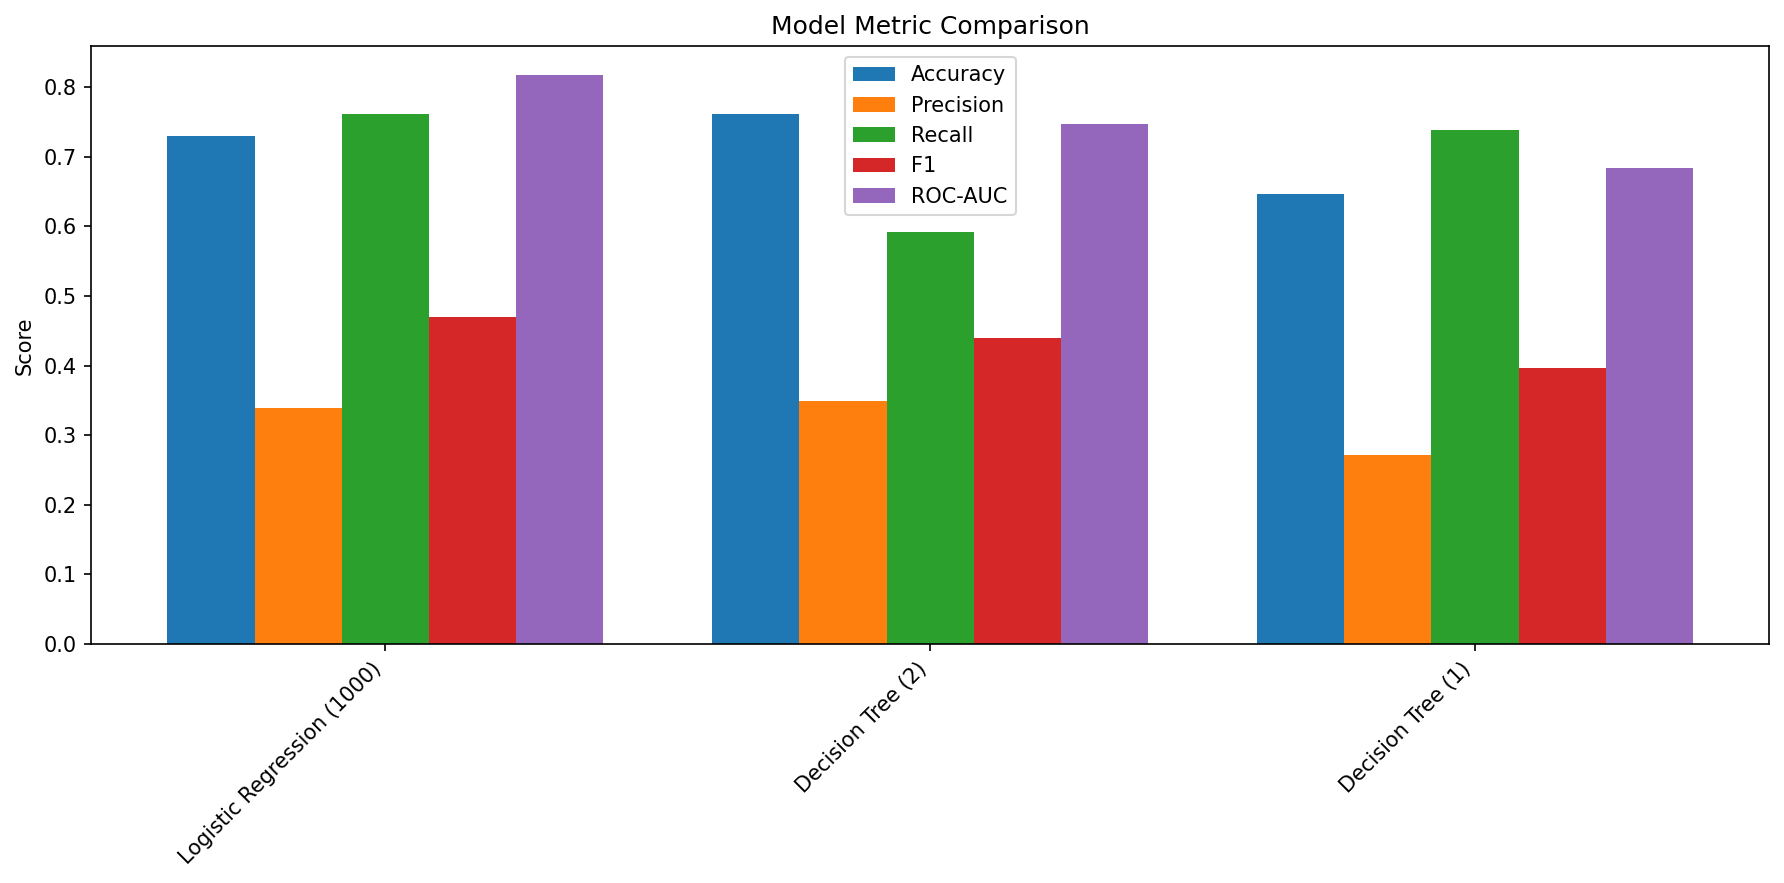
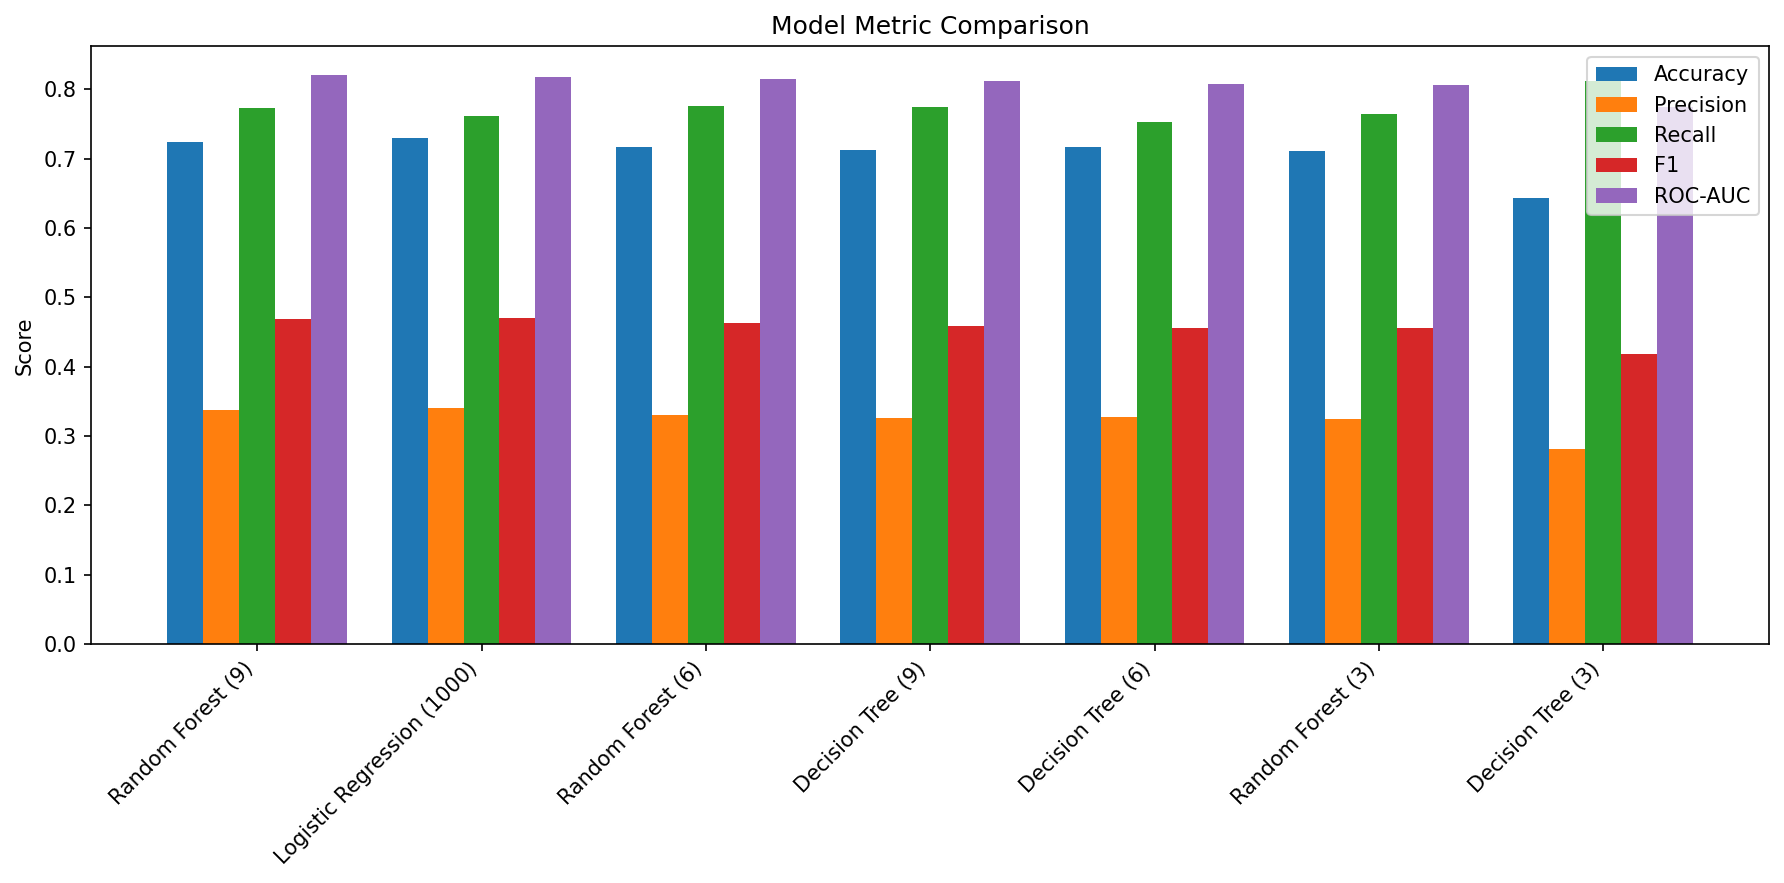
added random forest and added feature analysis graphs

diff --git a/visualizations.py b/visualizations.py
@@ -1,58 +1,25 @@
-from pathlib import Path
 from typing import Optional, Sequence
 
 import matplotlib.pyplot as plt
 import numpy as np
 import pandas as pd
 from sklearn.metrics import ConfusionMatrixDisplay, RocCurveDisplay
+from sklearn.tree import plot_tree
 
-
+from pathlib import Path
 OUTPUT_DIR = Path("outputs")
-OUTPUT_DIR.mkdir(parents=True, exist_ok=True)
-
 
 def _save_current_figure(filename: str) -> None:
-    """Save the current matplotlib figure to the outputs directory."""
     path = OUTPUT_DIR / filename
     plt.tight_layout()
     plt.savefig(path, bbox_inches="tight", dpi=150)
     plt.close()
-
-
-def plot_metric_comparison(
-    results_df: pd.DataFrame,
-    metric: str,
-    title: Optional[str] = None,
-    filename: Optional[str] = None,
-) -> None:
-
-    if metric not in results_df.columns:
-        raise ValueError(f"Metric '{metric}' not found in results dataframe.")
-
-    df = results_df.copy()
-    df = df.sort_values(by=metric, ascending=False)
-
-    plt.figure(figsize=(10, 5))
-
-    plt.bar(df["Label"], df[metric])
-
-    plt.xlabel("Model")
-    plt.ylabel(metric)
-    plt.title(title or f"{metric} Comparison")
-
-    plt.xticks(rotation=45, ha="right")
-
-    _save_current_figure(
-        filename or f"{metric.lower().replace('-', '_')}_comparison.png"
-    )
-
 
 def plot_model_metrics(
     results_df: pd.DataFrame,
     metrics: Optional[Sequence[str]] = None,
     filename: str = "model_metrics_comparison.png",
 ) -> None:
-    """Plot several metrics side by side for model comparison."""
     if metrics is None:
         metrics = ["Accuracy", "Precision", "Recall", "F1", "ROC-AUC"]
 
@@ -105,7 +72,6 @@ def plot_confusion_matrix(
     title: str = "Confusion Matrix",
     filename: str = "confusion_matrix.png",
 ) -> None:
-    """Plot a confusion matrix using sklearn's display helper."""
     plt.figure(figsize=(5, 4))
     disp = ConfusionMatrixDisplay(confusion_matrix=confusion_matrix, display_labels=labels)
     disp.plot(cmap="Blues", values_format="d")
@@ -119,42 +85,16 @@ def plot_roc_curve(
     title: str = "ROC Curve",
     filename: str = "roc_curve.png",
 ) -> None:
-    """Plot a ROC curve from true labels and predicted probabilities."""
     plt.figure(figsize=(6, 5))
     RocCurveDisplay.from_predictions(y_true, y_score)
     plt.title(title)
     _save_current_figure(filename)
-
-
-def plot_feature_importance(
-    feature_names: Sequence[str],
-    importances: Sequence[float],
-    top_n: int = 10,
-    title: str = "Feature Importance",
-    filename: str = "feature_importance.png",
-) -> None:
-    """Plot the top-N feature importances."""
-    importance_df = pd.DataFrame({
-        "Feature": list(feature_names),
-        "Importance": list(importances),
-    })
-    importance_df = importance_df.sort_values(by="Importance", ascending=False).head(top_n)
-    importance_df = importance_df.sort_values(by="Importance", ascending=True)
-
-    plt.figure(figsize=(8, 5))
-    plt.barh(importance_df["Feature"], importance_df["Importance"])
-    plt.xlabel("Importance")
-    plt.title(title)
-
-    _save_current_figure(filename)
-
 
 def plot_class_distribution(
     y: Sequence[int],
     title: str = "Class Distribution",
     filename: str = "class_distribution.png",
 ) -> None:
-    """Plot the distribution of target classes."""
     values = pd.Series(y).value_counts().sort_index()
 
     plt.figure(figsize=(6, 4))
@@ -164,6 +104,45 @@ def plot_class_distribution(
     plt.title(title)
 
     _save_current_figure(filename)
+
+def plot_features(
+    features: pd.DataFrame,
+    model_name: str,
+    filename: str,
+    top_n: int = 10,
+) -> None:
+
+    if features is None or features.empty:
+        return
+
+    filename = filename.replace(" ", "_").lower()
+
+    feature_type = features.iloc[0]["Type"]
+
+    features = (
+        features
+        .sort_values(by="Value", ascending=False)
+        .head(top_n)
+        .sort_values(by="Value", ascending=True)
+    )
+
+    plt.figure(figsize=(8, 5))
+
+    plt.barh(
+        features["Feature"],
+        features["Value"]
+    )
+
+    plt.xlabel(feature_type)
+    plt.ylabel("Feature")
+
+    plt.title(
+        f"{model_name} {feature_type} Analysis"
+    )
+
+    _save_current_figure(
+        filename + "_features.png"
+    )
 
 def generate_visualizations(results_df, y):
     results_df["Label"] = (
@@ -177,12 +156,5 @@ def generate_visualizations(results_df, y):
 
     plot_model_metrics(results_df)
 
-    plot_metric_comparison(
-        results_df,
-        metric="Recall"
-    )
-
-    plot_metric_comparison(
-        results_df,
-        metric="Accuracy"
-    )
+    for row in results_df.itertuples():
+        plot_features(features=row.Features, filename=row.Label, model_name=row.Label)

diff --git a/testing.py b/testing.py
@@ -1,18 +1,19 @@
 from pathlib import Path
 from typing import List, Dict, Any
-
-import numpy as np
 import pandas as pd
 
 from preprocessing import load_data
-from models import create_tree, create_logistic_regression
+from models import create_tree, create_logistic_regression, create_random_forest
 from evaluation import evaluate_model
 
+from pathlib import Path
 OUTPUT_DIR = Path("outputs")
+
 RANDOM_STATE = 0
 
 # Model search spaces
-TREE_DEPTHS = [1, 2]
+TREE_DEPTHS = [3, 6, 9]
+FOREST_DEPTHS = [3, 6, 9]
 LR_ITERATIONS = [1000]
 
 def create_experiments():
@@ -23,6 +24,17 @@ def create_experiments():
         experiments.append(
             {
                 "model_name": "Decision Tree",
+                "parameter": "max_depth",
+                "value": depth,
+                "model": model,
+            }
+        )
+
+    for depth in FOREST_DEPTHS:
+        model = create_random_forest(depth)
+        experiments.append(
+            {
+                "model_name": "Random Forest",
                 "parameter": "max_depth",
                 "value": depth,
                 "model": model,
@@ -86,7 +98,7 @@ def run_experiments() -> None:
         if feature_df is not None:
             filename = (
                 f"{row.Model}_{row.Setting}_features.csv"
-                .replace(" ", "_")
+                .replace(" ", "_").lower()
             )
             feature_df.to_csv(
                 OUTPUT_DIR / filename,

diff --git a/models.py b/models.py
@@ -2,13 +2,14 @@ from sklearn.tree import DecisionTreeClassifier
 from sklearn.pipeline import Pipeline
 from sklearn.preprocessing import StandardScaler
 from sklearn.linear_model import LogisticRegression
+from sklearn.ensemble import RandomForestClassifier
 
 RANDOM_STATE = 0
 
-def create_tree(depth):
+def create_tree(max_depth):
     return DecisionTreeClassifier(
         criterion='gini',
-        max_depth=depth,
+        max_depth=max_depth,
         class_weight='balanced',
         random_state=RANDOM_STATE
     )
@@ -22,3 +23,14 @@ def create_logistic_regression(iterations):
             random_state=RANDOM_STATE
         ))
     ])
+
+def create_random_forest(max_depth):
+    return RandomForestClassifier(
+        n_estimators=200,
+        criterion='gini',
+        max_depth=max_depth,
+        class_weight='balanced',
+        random_state=RANDOM_STATE,
+        n_jobs=-1,
+        min_samples_leaf=5
+    )

diff --git a/execution.py b/execution.py
@@ -1,5 +1,16 @@
 from testing import run_experiments
 from visualizations import generate_visualizations
+import os
+
+from pathlib import Path
+OUTPUT_DIR = Path("outputs")
+
+if os.path.exists(OUTPUT_DIR):
+    for file in OUTPUT_DIR.iterdir():
+        if file.is_file():
+            file.unlink()
+else:
+    OUTPUT_DIR.mkdir(parents=True, exist_ok=True)
 
 results_df, y = run_experiments()
 

diff --git a/evaluation.py b/evaluation.py
@@ -35,12 +35,17 @@ def evaluate_model(
     roc_aucs = []
     confusion_mats = []
     features = []
+    all_probs = []
+    all_true = []
 
     for train_idx, test_idx in cv.split(X, y):
         X_train = X.iloc[train_idx]
         X_test = X.iloc[test_idx]
         y_train = y.iloc[train_idx]
         y_test = y.iloc[test_idx]
+
+        all_probs.extend(y_prob)
+        all_true.extend(y_test)
 
         fold_model = clone(model)
         fold_model.fit(X_train, y_train)
@@ -96,5 +101,7 @@ def evaluate_model(
         "F1": np.mean(f1s),
         "ROC-AUC": np.mean(roc_aucs) if roc_aucs else None,
         "Confusion Matrix": np.sum(confusion_mats, axis=0),
-        "Features": mean_features
+        "Features": mean_features,
+        "Probabilities": all_probs,
+        "True Labels": all_true,
     }